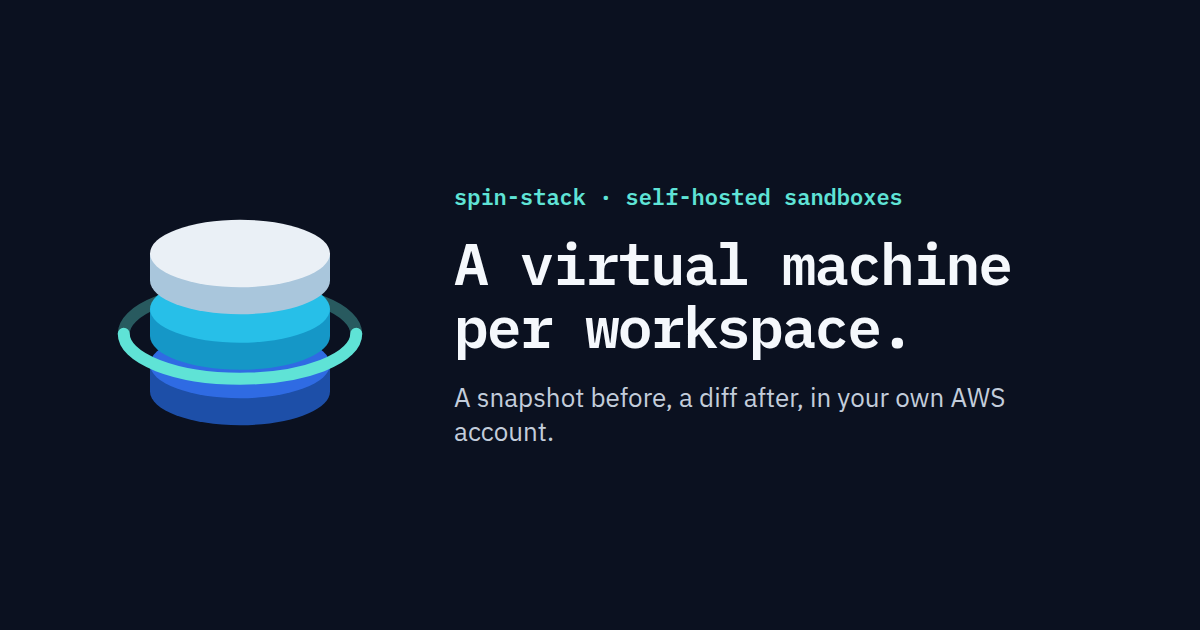
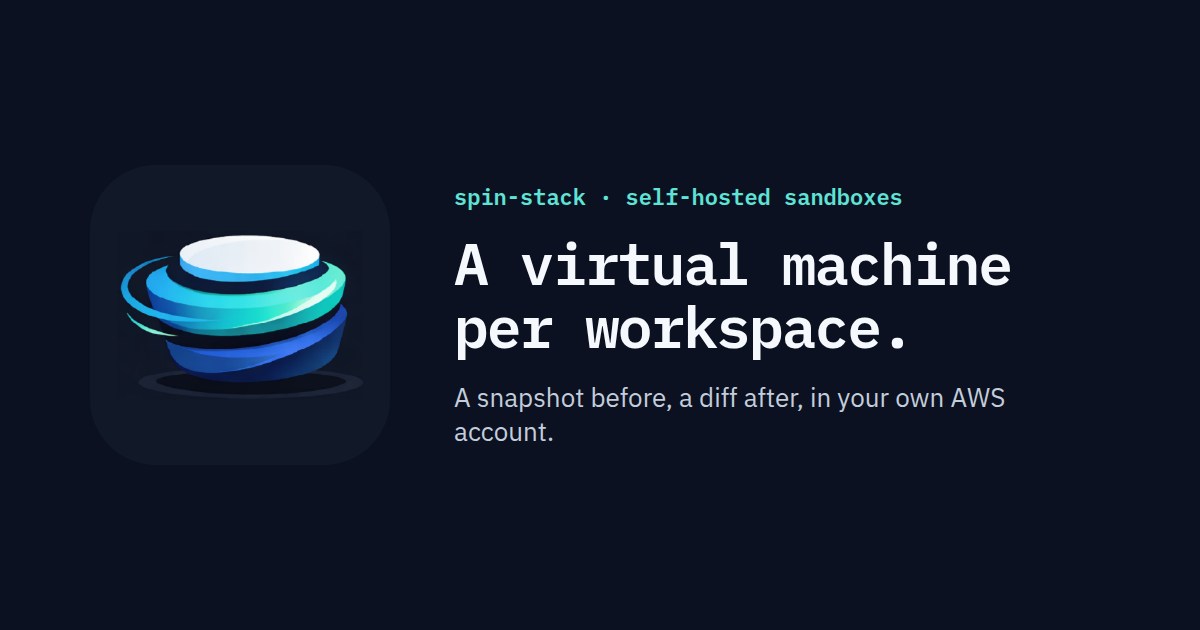
layout: a table of contents that keeps its width, topics, zoom, the organization's mark
The right column took half of whatever width a screen had beside the text: at 1920 px a third of
the window for a dozen short links, and the text squeezed between it and the sidebar. It keeps
17rem now, and the text, 48rem at most, is centered in what is between the two sidebars.

Two Starlight plugins. starlight-sidebar-topics splits the sidebar into the four topics the nav
already had - Docs, Install and operate, Security, Reference - so a reader of the docs no longer
scrolls past every CLI page; each group in src/lib/nav.mjs names its topic, and one without fails
the build. starlight-image-zoom zooms images in place; Figure emits its markup, since the plugin
finds images in Markdown and a diagram is a component's.

Every page title offers its Markdown twin, copied or opened, for a reader taking the page to a
model or a terminal; it names no assistant. A heading's link to itself shows on hover and focus
only, at a size set for the mono headings.

The mark is the organization's own: the stack of disks cut from its avatar, without the wordmark,
as the logo, the favicon and in the link preview. The drawing that stood in for it is gone.

Changed region(s): [[0.0925, 0.3317, 0.3083, 0.6937]]

diff --git a/src/styles/custom.css b/src/styles/custom.css
@@ -135,3 +135,46 @@ h1#_top {
 	letter-spacing: -0.035em;
 	word-spacing: -0.12em;
 }
+
+/* The columns. Starlight centers the text and gives the table of contents half of whatever width
+   is left, so on a wide screen the right column grew to a third of the window with a dozen short
+   links in it. It keeps a fixed width instead, and the text, a little wider, is centered in what
+   is between the two sidebars. */
+:root {
+	--sl-content-width: 48rem;
+	--spin-toc-width: 17rem;
+}
+@media (min-width: 72rem) {
+	.right-sidebar-container {
+		width: var(--spin-toc-width);
+	}
+	[data-has-sidebar][data-has-toc] .main-pane {
+		--sl-content-margin-inline: auto;
+		width: calc(100% - var(--spin-toc-width));
+	}
+	.right-sidebar-panel {
+		width: auto;
+	}
+	.right-sidebar-panel .sl-container {
+		max-width: none;
+	}
+}
+
+/* A heading's link to itself shows where a reader reaches for it, not beside every heading. */
+.sl-markdown-content .sl-heading-wrapper .sl-anchor-link {
+	opacity: 0;
+	transition: opacity 120ms;
+}
+.sl-markdown-content .sl-heading-wrapper:hover .sl-anchor-link,
+.sl-markdown-content .sl-anchor-link:focus-visible {
+	opacity: 1;
+}
+.sl-markdown-content .sl-anchor-link svg {
+	width: 0.55em;
+	height: 0.55em;
+}
+
+/* The mark is a tile of its own ground: rounded, so it sits on either theme's header. */
+.site-title img {
+	border-radius: 22%;
+}

diff --git a/README.md b/README.md
@@ -19,7 +19,10 @@ is checked against checkouts of spin and spin-terraform-aws beside this one (`SP
 `TERRAFORM=` to point elsewhere).
 
 - **Pages** are Markdown under `src/content/docs/`. Every page needs a `description`: it is its
-  line in `llms.txt`. A page must be in `src/lib/nav.mjs`, or the build fails.
+  line in `llms.txt`. A page must be in `src/lib/nav.mjs`, or the build fails. Each group there
+  belongs to a topic - Docs, Install and operate, Security, Reference - and the sidebar shows one
+  topic's groups at a time (`starlight-sidebar-topics`). Images and diagrams zoom in place
+  (`starlight-image-zoom`), and every page title offers its Markdown twin, copied or opened.
 - **Reference pages** under `src/content/docs/reference/` are generated by `task reference` from
   checkouts of spin and spin-terraform-aws beside this one (`SPIN=`, `TERRAFORM=` to point
   elsewhere). Each names its source in its frontmatter (`source: repository:path`), and its footer
